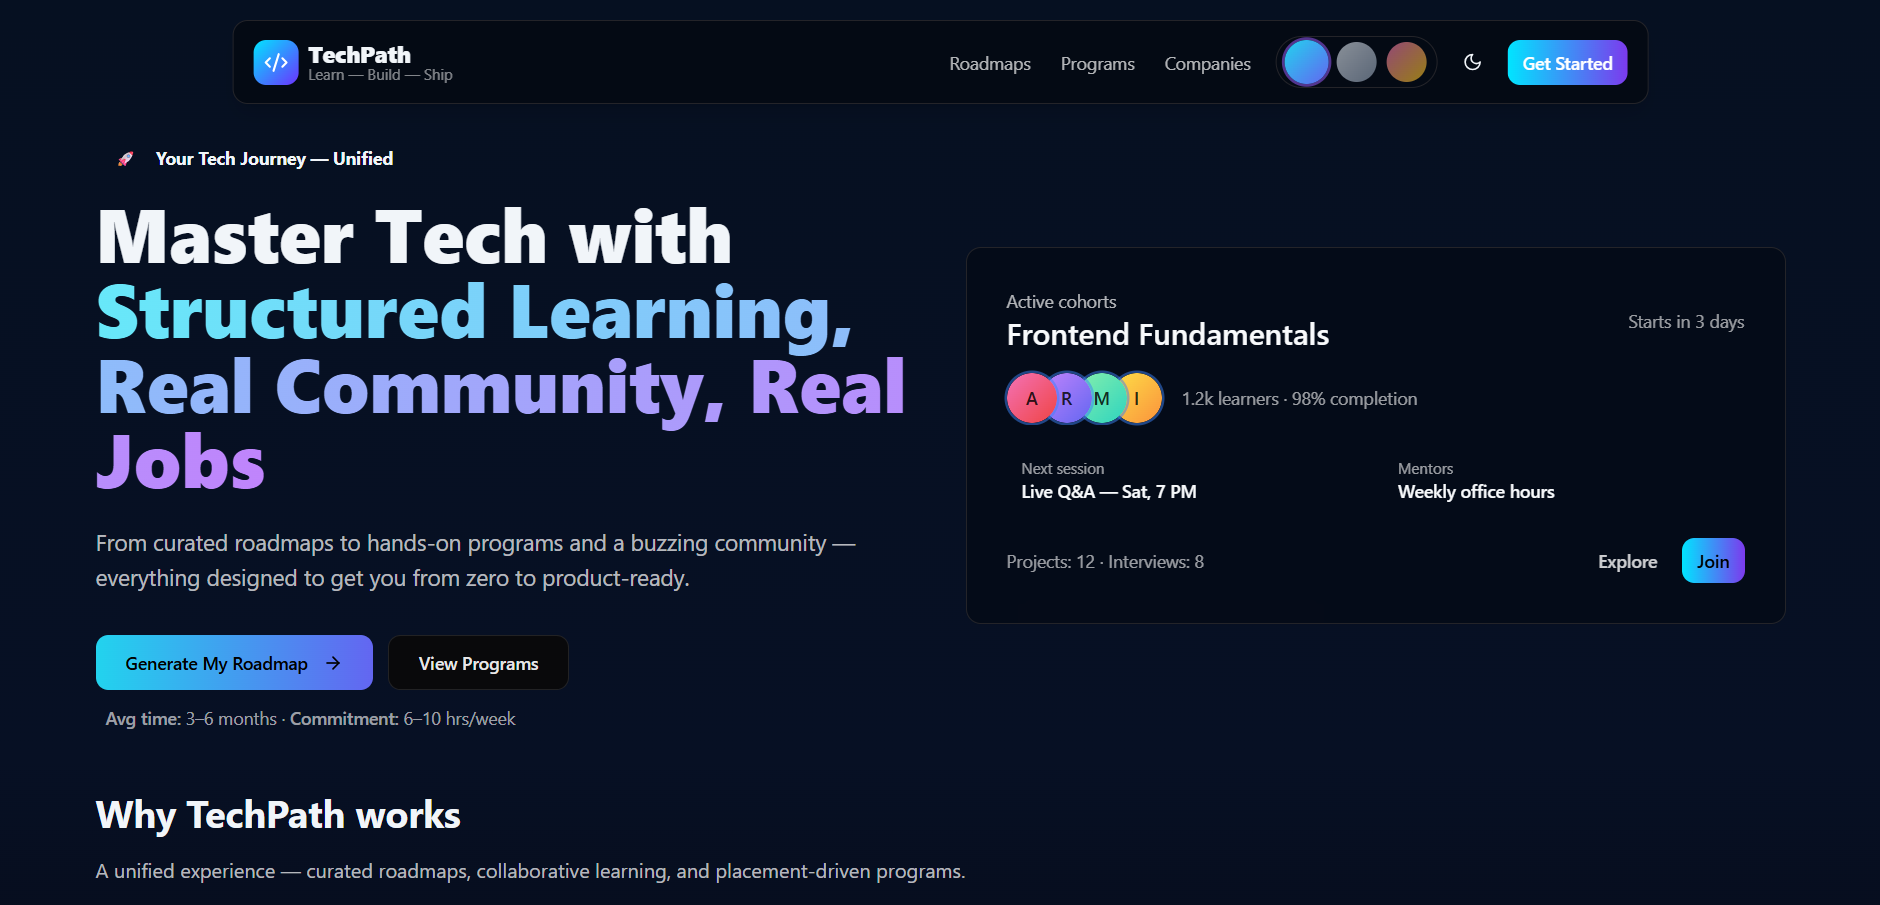
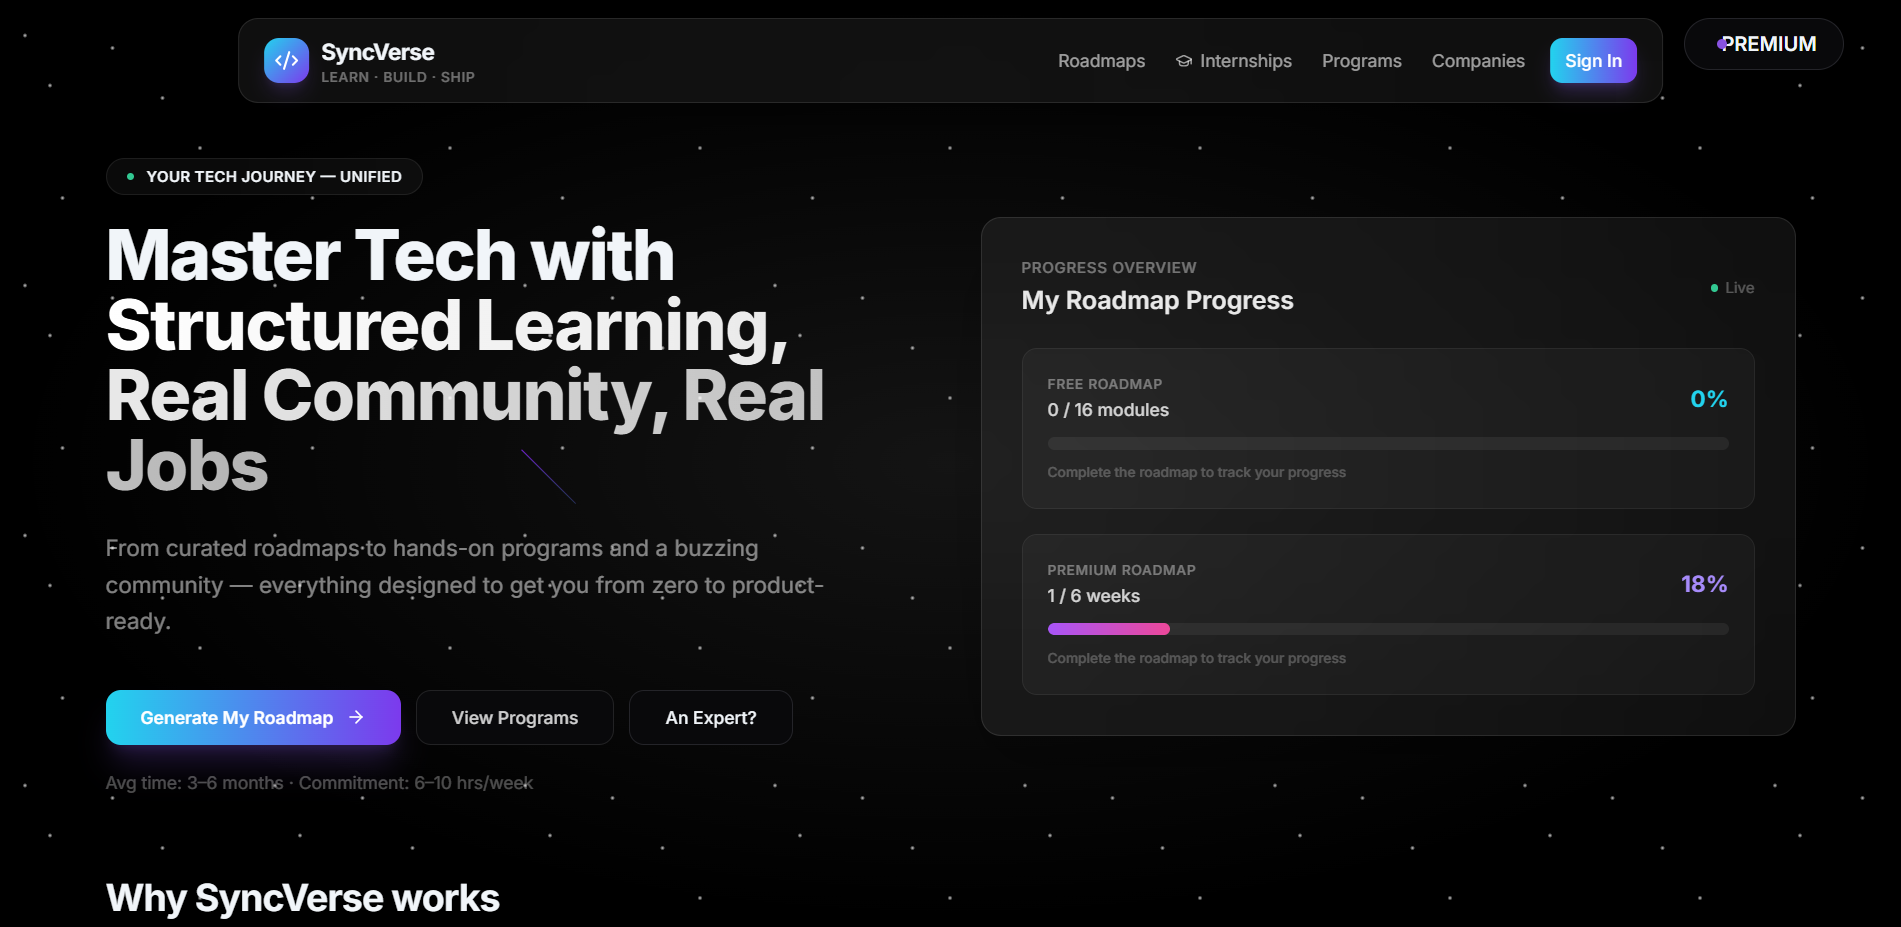
done shit

diff --git a/src/components/home/skills-showcase.tsx b/src/components/home/skills-showcase.tsx
@@ -27,9 +27,9 @@ const allSkills: Skill[] = [
   { name: "AWS", logo: "https://skillicons.dev/icons?i=aws&theme=dark" },
   { name: "Vercel", logo: "https://skillicons.dev/icons?i=vercel&theme=dark" },
   { name: "Python", logo: "https://skillicons.dev/icons?i=python" },
-  { name: "Pandas", logo: "https://skillicons.dev/icons?i=react" },
-  { name: "NumPy", logo: "https://skillicons.dev/icons?i=react" },
-  { name: "Matplotlib", logo: "https://skillicons.dev/icons?i=react" },
+  { name: "Pandas", logo: "https://skillicons.dev/icons?i=pinia" },
+  { name: "NumPy", logo: "https://skillicons.dev/icons?i=netlify" },
+  { name: "matplotlib", logo: "https://skillicons.dev/icons?i=netlify" },
 ];
 
 // Split skills into two rows for the marquee
